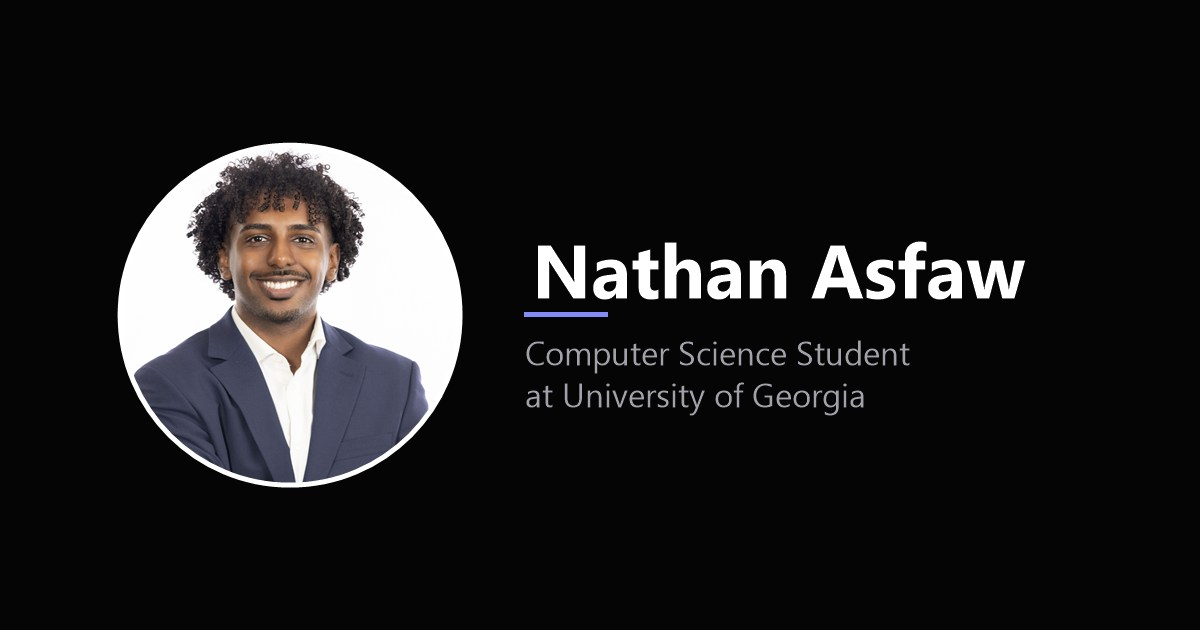
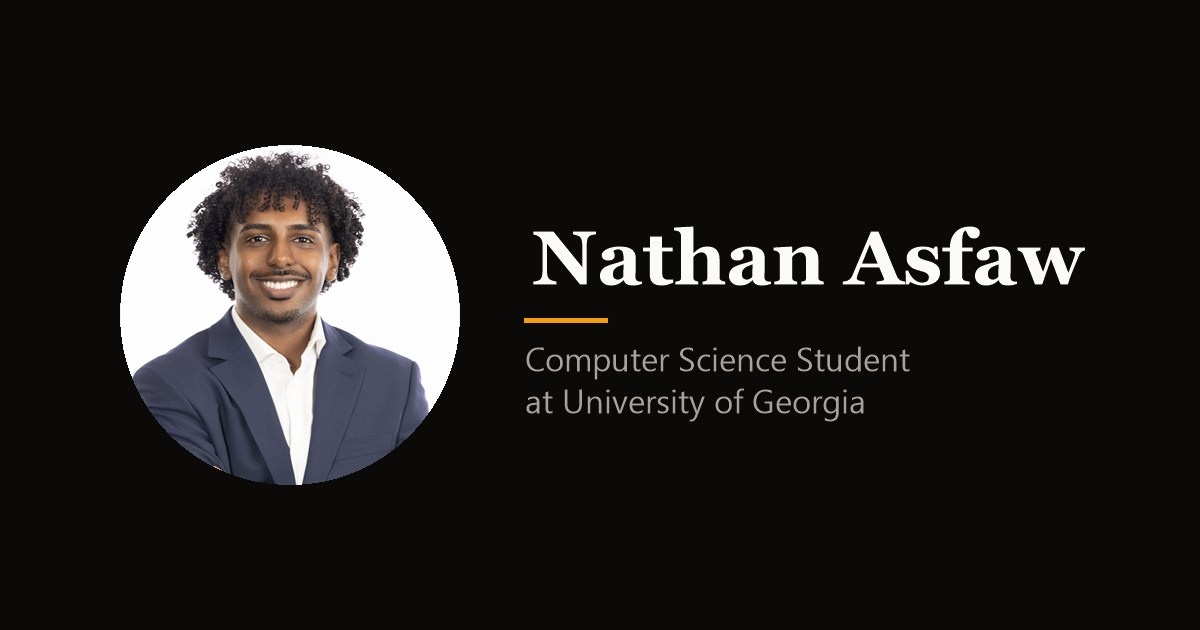
Restyle to warm editorial theme
- Fraunces serif display name via @fontsource-variable/fraunces
- Warm-black background with amber/gold accents
- Amber wave palette and warm horizon fill
- Borderless photo with soft glow (no ring)
- Warm stone surfaces and amber hover states on link rows
- Regenerate OG banner with serif name and amber accent

diff --git a/src/components/LinkButton.tsx b/src/components/LinkButton.tsx
@@ -25,16 +25,16 @@ export default function LinkButton({
       rel={link.external ? "noopener noreferrer" : undefined}
       whileHover={{ scale: 1.02 }}
       whileTap={{ scale: 0.98 }}
-      className="group flex items-center gap-4 rounded-2xl border border-white/10 bg-zinc-900/60 px-5 py-4 backdrop-blur-md transition-colors duration-200 hover:border-white/25 hover:bg-zinc-900/80"
+      className="group flex items-center gap-4 rounded-2xl border border-white/10 bg-stone-900/60 px-5 py-4 backdrop-blur-md transition-colors duration-200 hover:border-amber-500/30 hover:bg-stone-900/80"
     >
-      <span className="flex h-10 w-10 shrink-0 items-center justify-center rounded-xl border border-white/10 bg-zinc-800/80 text-zinc-300 transition-colors duration-200 group-hover:text-white">
+      <span className="flex h-10 w-10 shrink-0 items-center justify-center rounded-xl border border-white/10 bg-stone-800/80 text-stone-300 transition-colors duration-200 group-hover:text-amber-400">
         <Icon size={18} strokeWidth={1.75} aria-hidden="true" />
       </span>
       <span className="min-w-0 flex-1">
-        <span className="block truncate text-sm font-semibold text-white">
+        <span className="block truncate text-sm font-semibold text-stone-50">
           {link.label}
         </span>
-        <span className="block truncate text-xs text-zinc-400">
+        <span className="block truncate text-xs text-stone-400">
           {link.sublabel}
         </span>
       </span>
@@ -47,7 +47,7 @@ export default function LinkButton({
             event.stopPropagation();
             onCopy(copyValue);
           }}
-          className="rounded-lg border border-white/10 p-2 text-zinc-400 transition-colors duration-200 hover:border-white/25 hover:text-white"
+          className="rounded-lg border border-white/10 p-2 text-stone-400 transition-colors duration-200 hover:border-amber-500/30 hover:text-amber-400"
         >
           <Copy size={14} strokeWidth={2} aria-hidden="true" />
         </button>
@@ -57,7 +57,7 @@ export default function LinkButton({
           size={16}
           strokeWidth={2}
           aria-hidden="true"
-          className="shrink-0 text-zinc-500 transition-colors duration-200 group-hover:text-white"
+          className="shrink-0 text-stone-500 transition-colors duration-200 group-hover:text-amber-400"
         />
       )}
     </motion.a>

diff --git a/src/App.tsx b/src/App.tsx
@@ -57,18 +57,20 @@ export default function App() {
             containerClassName="h-full w-full"
             waveOpacity={0.35}
             speed="slow"
-            colors={["#38bdf8", "#818cf8", "#22d3ee"]}
+            backgroundFill="#0c0a09"
+            skyFill="#431407"
+            colors={["#f59e0b", "#fcd34d", "#b45309", "#d97706"]}
           />
           <div
             aria-hidden="true"
-            className="pointer-events-none absolute inset-x-0 bottom-0 h-24 bg-gradient-to-b from-transparent to-[#050505]"
+            className="pointer-events-none absolute inset-x-0 bottom-0 h-24 bg-gradient-to-b from-transparent to-[#0c0a09]"
           />
           <div className="absolute bottom-0 left-0 right-0 z-20 mx-auto flex max-w-md translate-y-1/2 justify-center px-5">
             <motion.img
               variants={item}
               src={profile.photoSrc}
               alt={profile.name}
-              className="h-32 w-32 rounded-full border-4 border-[#050505] object-cover object-top shadow-xl ring-1 ring-white/10"
+              className="h-32 w-32 rounded-full object-cover object-top shadow-[0_10px_40px_-8px_rgba(0,0,0,0.6),0_0_60px_-12px_rgba(245,158,11,0.28)]"
             />
           </div>
         </motion.div>
@@ -89,7 +91,7 @@ export default function App() {
 
           <motion.p
             variants={item}
-            className="mt-10 text-center text-xs text-zinc-600"
+            className="mt-10 text-center text-xs text-stone-600"
           >
             © {new Date().getFullYear()} {profile.name}
           </motion.p>
@@ -105,7 +107,7 @@ export default function App() {
               animate={{ opacity: 1, y: 0 }}
               exit={{ opacity: 0, y: 12 }}
               transition={{ duration: 0.2 }}
-              className="rounded-full border border-white/10 bg-zinc-900/90 px-4 py-2 text-sm font-medium text-white backdrop-blur-md"
+              className="rounded-full border border-white/10 bg-stone-900/90 px-4 py-2 text-sm font-medium text-white backdrop-blur-md"
             >
               {toast}
             </motion.div>

diff --git a/src/components/ProfileCard.tsx b/src/components/ProfileCard.tsx
@@ -10,10 +10,10 @@ export default function ProfileCard({ variants }: ProfileCardProps) {
   return (
     <>
       <motion.div variants={variants} className="mt-20 text-center">
-        <h1 className="text-4xl font-bold leading-tight tracking-tight text-white sm:text-5xl">
+        <h1 className="font-serif text-5xl font-semibold leading-tight text-stone-50 sm:text-6xl">
           {profile.name}
         </h1>
-        <p className="mt-2 text-base font-medium tracking-tight text-zinc-400">
+        <p className="mt-3 text-base font-medium tracking-tight text-stone-400">
           {profile.title}
         </p>
       </motion.div>
@@ -22,7 +22,7 @@ export default function ProfileCard({ variants }: ProfileCardProps) {
         <a
           href={contactCardHref}
           type="text/vcard"
-          className="group inline-flex w-full items-center justify-center gap-2 rounded-full bg-white px-6 py-3.5 text-sm font-semibold text-black transition-shadow duration-300 hover:shadow-[0_0_28px_rgba(255,255,255,0.28)]"
+          className="group inline-flex w-full items-center justify-center gap-2 rounded-full bg-white px-6 py-3.5 text-sm font-semibold text-black transition-shadow duration-300 hover:shadow-[0_0_28px_rgba(245,158,11,0.4)]"
         >
           <UserRoundPlus size={18} strokeWidth={2} aria-hidden="true" />
           Save my contact

diff --git a/src/index.css b/src/index.css
@@ -2,10 +2,14 @@
 /* Self-hosted Inter, weight axis only (100-900). Each @font-face carries a
    unicode-range, so a browser fetches just the subset the page needs. */
 @import "@fontsource-variable/inter/wght.css";
+/* Fraunces variable serif — used for the display name. */
+@import "@fontsource-variable/fraunces";
 
 @theme {
   --font-sans: "Inter Variable", "Inter", ui-sans-serif, system-ui, -apple-system,
     "Segoe UI", Roboto, sans-serif;
+  --font-serif: "Fraunces Variable", "Fraunces", ui-serif, Georgia, "Times New Roman",
+    serif;
 }
 
 html,
@@ -15,14 +19,14 @@ body,
 }
 
 body {
-  background-color: #050505;
-  color: #a1a1aa;
+  background-color: #0c0a09;
+  color: #a8a29e;
   font-family: var(--font-sans);
   -webkit-font-smoothing: antialiased;
   -moz-osx-font-smoothing: grayscale;
 }
 
 ::selection {
-  background-color: #ffffff;
-  color: #050505;
+  background-color: #f59e0b;
+  color: #0c0a09;
 }

diff --git a/index.html b/index.html
@@ -4,7 +4,7 @@
     <meta charset="UTF-8" />
     <meta name="viewport" content="width=device-width, initial-scale=1.0" />
     <meta name="color-scheme" content="dark" />
-    <meta name="theme-color" content="#050505" />
+    <meta name="theme-color" content="#0c0a09" />
     <meta
       name="description"
       content="Nathan Asfaw — Computer Science Student at University of Georgia. Connect on LinkedIn, GitHub, or view my resume."
